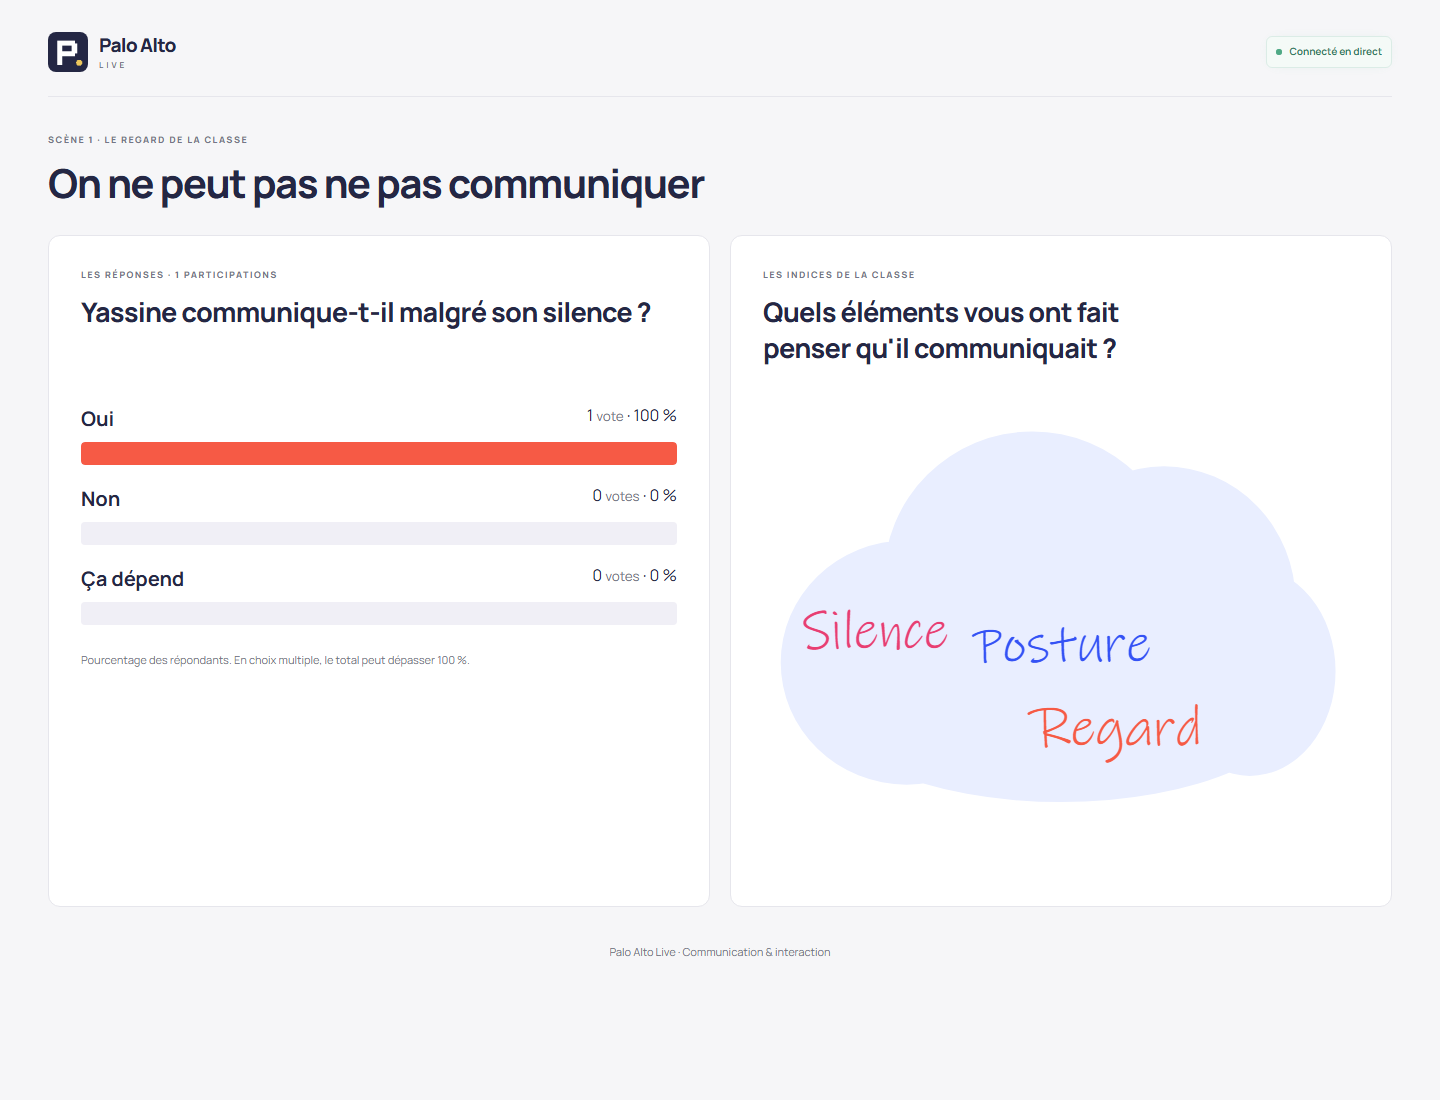
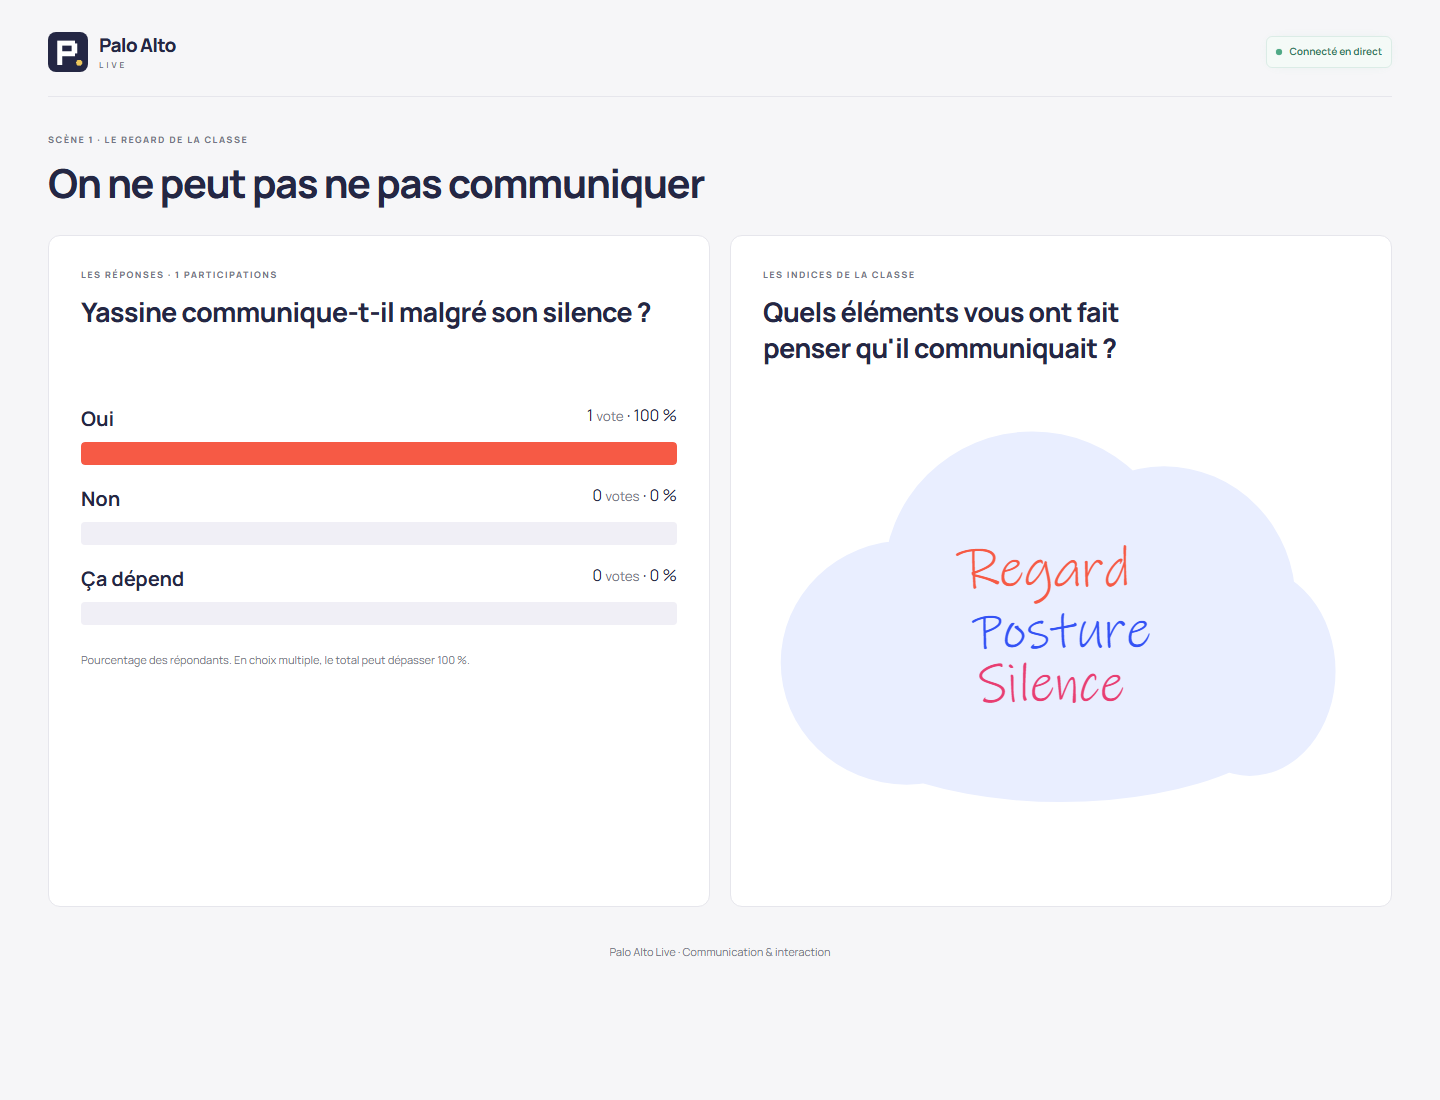
Pack cloud words closely around the live leading choice

Changed region(s): [[0.5625, 0.4945, 0.8438, 0.68]]

diff --git a/tests/e2e/results.spec.ts b/tests/e2e/results.spec.ts
@@ -108,6 +108,40 @@ test('poll and handwritten cloud render consistently without crowded words or cl
   });
   for (const [kind, url] of Object.entries(pngs))
     await writeFile(`work/${kind}-aesthetic.png`, Buffer.from(url.split(',')[1], 'base64'));
+  for (const winner of ['communication', 'écoute']) {
+    await expect(page.locator('.word').first().locator('title')).toContainText(winner);
+    const centered = await page
+      .locator('.word')
+      .first()
+      .evaluate((word) => {
+        const svg = (word as SVGTextElement).ownerSVGElement!;
+        const width = svg.viewBox.baseVal.width;
+        const height = svg.viewBox.baseVal.height;
+        const ctx = document.createElement('canvas').getContext('2d')!;
+        ctx.font = `${word.getAttribute('font-size')}px ${getComputedStyle(word).fontFamily}`;
+        const label = Array.from(word.childNodes)
+          .filter((node) => node.nodeType === Node.TEXT_NODE)
+          .map((node) => node.textContent)
+          .join('')
+          .trim();
+        const glyph = ctx.measureText(label);
+        const x =
+          Number(word.getAttribute('x')) +
+          (glyph.actualBoundingBoxRight - glyph.actualBoundingBoxLeft) / 2;
+        const y =
+          Number(word.getAttribute('y')) +
+          (glyph.actualBoundingBoxDescent - glyph.actualBoundingBoxAscent) / 2;
+        return Math.abs(x - width / 2) < 8 && Math.abs(y - height / 2) < 8;
+      });
+    expect(centered).toBe(true);
+    await page.evaluate(() => {
+      const { result, render } = Reflect.get(window, '__aesthetic');
+      result.words = result.words.map((word: { word: string; count: number }) =>
+        word.word === 'écoute' ? { ...word, count: 35 } : word,
+      );
+      render();
+    });
+  }
   await page.evaluate(() => {
     const { result, render } = Reflect.get(window, '__aesthetic');
     result.total = 32;
@@ -131,10 +165,31 @@ test('poll and handwritten cloud render consistently without crowded words or cl
     await expect
       .poll(() =>
         page.locator('.word-cloud').evaluate((cloud) => {
-          const frame = cloud.getBoundingClientRect();
-          const boxes = Array.from(cloud.querySelectorAll('.word')).map((word) =>
-            word.getBoundingClientRect(),
-          );
+          const frame = cloud.querySelector('.cloud-graphic')!.getBoundingClientRect();
+          const ctx = document.createElement('canvas').getContext('2d')!;
+          // SVG line boxes include empty font leading. Check the painted glyphs,
+          // which must stay separate even when those invisible line boxes touch.
+          const boxes = Array.from(cloud.querySelectorAll<SVGTextElement>('.word')).map((word) => {
+            ctx.font = `${word.getAttribute('font-size')}px ${getComputedStyle(word).fontFamily}`;
+            const label = Array.from(word.childNodes)
+              .filter((node) => node.nodeType === Node.TEXT_NODE)
+              .map((node) => node.textContent)
+              .join('')
+              .trim();
+            const glyph = ctx.measureText(label);
+            const x = Number(word.getAttribute('x'));
+            const y = Number(word.getAttribute('y'));
+            const matrix = word.getScreenCTM()!;
+            const start = new DOMPoint(
+              x - glyph.actualBoundingBoxLeft,
+              y - glyph.actualBoundingBoxAscent,
+            ).matrixTransform(matrix);
+            const end = new DOMPoint(
+              x + glyph.actualBoundingBoxRight,
+              y + glyph.actualBoundingBoxDescent,
+            ).matrixTransform(matrix);
+            return { left: start.x, right: end.x, top: start.y, bottom: end.y };
+          });
           return boxes.every(
             (a, i) =>
               a.left >= frame.left &&
@@ -142,10 +197,10 @@ test('poll and handwritten cloud render consistently without crowded words or cl
               boxes.every(
                 (b, j) =>
                   i === j ||
-                  a.right + 8 <= b.left ||
-                  b.right + 8 <= a.left ||
-                  a.bottom + 8 <= b.top ||
-                  b.bottom + 8 <= a.top,
+                  a.right + 2 <= b.left ||
+                  b.right + 2 <= a.left ||
+                  a.bottom + 2 <= b.top ||
+                  b.bottom + 2 <= a.top,
               ),
           );
         }),
@@ -187,10 +242,10 @@ test('poll and handwritten cloud render consistently without crowded words or cl
               const c = other.bounds;
               return (
                 i === j ||
-                b.x + b.width + 33.9 <= c.x ||
-                c.x + c.width + 33.9 <= b.x ||
-                b.y + b.height + 23.9 <= c.y ||
-                c.y + c.height + 23.9 <= b.y
+                b.x + b.width + 11.9 <= c.x ||
+                c.x + c.width + 11.9 <= b.x ||
+                b.y + b.height + 8.9 <= c.y ||
+                c.y + c.height + 8.9 <= b.y
               );
             })
           );

diff --git a/participant-app/src/result-style.ts b/participant-app/src/result-style.ts
@@ -50,14 +50,10 @@ export function measureCloudWord(ctx: CanvasRenderingContext2D, word: string, si
   ctx.font = `${size}px ${cloudFont}`;
   const glyph = ctx.measureText(word);
   return {
-    left: Math.max(0, glyph.actualBoundingBoxLeft),
-    right: Math.max(glyph.width, glyph.actualBoundingBoxRight),
-    ascent: Math.max(size * 0.75, glyph.actualBoundingBoxAscent, glyph.fontBoundingBoxAscent || 0),
-    descent: Math.max(
-      size * 0.25,
-      glyph.actualBoundingBoxDescent,
-      glyph.fontBoundingBoxDescent || 0,
-    ),
+    left: Math.max(0, glyph.actualBoundingBoxLeft) + 2,
+    right: Math.max(glyph.width, glyph.actualBoundingBoxRight) + 2,
+    ascent: Math.max(size * 0.5, glyph.actualBoundingBoxAscent) + 2,
+    descent: Math.max(size * 0.08, glyph.actualBoundingBoxDescent) + 2,
   };
 }
 
@@ -71,14 +67,14 @@ export function layoutCloud(
     minSize: 32,
     baseSize: 40,
     growth: 52,
-    gapX: 34,
-    gapY: 24,
+    gapX: 12,
+    gapY: 9,
   },
 ): { items: CloudPlacement[]; hidden: number } {
   const { minSize, baseSize, growth, gapX, gapY } = sizing;
   const max = Math.max(1, ...words.map((word) => word.count));
   let best: CloudPlacement[] = [];
-  const candidates = words.slice(0, 24);
+  const candidates = [...words].sort((a, b) => b.count - a.count).slice(0, 24);
   for (let step = 0; candidates.length && step <= 12; step++) {
     const scale = 1 - step * 0.05;
     const items: CloudPlacement[] = [];
@@ -99,13 +95,12 @@ export function layoutCloud(
       const width = left + right;
       const height = ascent + descent;
       if (width > area.width || height > area.height) continue;
-      for (let n = 0; n < 1600; n++) {
+      // Pin the winning word to the center; pack every other word outward from it.
+      for (let n = 0; n < (index ? 1600 : 1); n++) {
         const radius = Math.sqrt(n / 1600);
         const angle = (n + index * 19) * 2.399963229728653;
-        const anchorX = index ? 0.12 + ((index * 0.61803398875) % 1) * 0.76 : 0.5;
-        const anchorY = index ? 0.13 + ((index * 0.75487766625) % 1) * 0.69 : 0.53;
-        const x = area.x + area.width * (anchorX + radius * 0.5 * Math.cos(angle)) - width / 2;
-        const y = area.y + area.height * (anchorY + radius * 0.5 * Math.sin(angle)) - height / 2;
+        const x = area.x + area.width * (0.5 + radius * 0.5 * Math.cos(angle)) - width / 2;
+        const y = area.y + area.height * (0.5 + radius * 0.5 * Math.sin(angle)) - height / 2;
         if (
           x < area.x ||
           y < area.y ||

diff --git a/tests/result-style.test.ts b/tests/result-style.test.ts
@@ -70,10 +70,10 @@ test('cloud keeps every glyph inside its frame and separate, even with long word
         if (item === other) continue;
         const b = other.bounds;
         assert.ok(
-          box.x + box.width + 33.9 <= b.x ||
-            b.x + b.width + 33.9 <= box.x ||
-            box.y + box.height + 23.9 <= b.y ||
-            b.y + b.height + 23.9 <= box.y,
+          box.x + box.width + 11.9 <= b.x ||
+            b.x + b.width + 11.9 <= box.x ||
+            box.y + box.height + 8.9 <= b.y ||
+            b.y + b.height + 8.9 <= box.y,
           'Words must retain a gutter on at least one axis',
         );
       }
@@ -85,4 +85,28 @@ test('cloud keeps every glyph inside its frame and separate, even with long word
     }),
     { items: [], hidden: 0 },
   );
+});
+
+test('the most selected word stays centered and a new winner replaces it during live updates', () => {
+  const area = { x: 85, y: 40, width: 1430, height: 435 };
+  const words = [
+    { word: 'écoute', count: 4 },
+    { word: 'confiance', count: 18 },
+    { word: 'respect', count: 9 },
+  ];
+  const measure = (word: string, size: number) => ({
+    left: 2,
+    right: word.length * size * 0.45,
+    ascent: size * 0.8,
+    descent: size * 0.2,
+  });
+  for (const winner of ['confiance', 'écoute']) {
+    const cloud = layoutCloud(words, area, measure);
+    assert.equal(cloud.items[0].word, winner);
+    const box = cloud.items[0].bounds;
+    assert.ok(Math.abs(box.x + box.width / 2 - area.x - area.width / 2) < 0.001);
+    assert.ok(Math.abs(box.y + box.height / 2 - area.y - area.height / 2) < 0.001);
+    assert.equal(cloud.items.length, words.length);
+    words[0].count = 25;
+  }
 });

diff --git a/tests/e2e/plugin.spec.ts b/tests/e2e/plugin.spec.ts
@@ -12,7 +12,7 @@ test('editor email login loads all prepared scenes; live poll and cloud fills su
   const archive = unzipSync(await readFile('dist/paloalto-live.plugin'));
   const manifest = JSON.parse(new TextDecoder().decode(archive['config.json']));
   expect(manifest.variations[0].type).toBe('panelRight');
-  expect(manifest.version).toBe('1.2.1');
+  expect(manifest.version).toBe('1.2.2');
   expect(manifest.minVersion).toBe('9.3.0');
   expect(manifest.variations[0].EditorsSupport).toEqual(['slide']);
   for (const file of [

diff --git a/participant-app/src/WordCloud.tsx b/participant-app/src/WordCloud.tsx
@@ -46,7 +46,7 @@ export function WordCloud({ words }: { words: { word: string; count: number }[] 
         words,
         { x: 12, y: 12, width: width - 24, height: height - 24 },
         (word, size) => measureCloudWord(ctx, labels.get(word)!, size),
-        { minSize: 18, baseSize: 24, growth: 30, gapX: 14, gapY: 12 },
+        { minSize: 18, baseSize: 24, growth: 30, gapX: 6, gapY: 5 },
       );
       if (!cancelled)
         setCloud({

diff --git a/onlyoffice-plugin/src/AssetTray.tsx b/onlyoffice-plugin/src/AssetTray.tsx
@@ -239,7 +239,7 @@ export function AssetTray({ bridge }: { bridge: AssetBridge }) {
     <div className="asset-tray">
       <header className="asset-tray-header">
         <Brand small />
-        <span className="asset-version">v1.2.1</span>
+        <span className="asset-version">v1.2.2</span>
       </header>
       <main>
         <div className="eyebrow">VOS GRAPHIQUES SUR LA DIAPOSITIVE</div>

diff --git a/docs/ONLYOFFICE_PLUGIN.md b/docs/ONLYOFFICE_PLUGIN.md
@@ -1,6 +1,6 @@
 # ONLYOFFICE Desktop Presentation plugin
 
-Plugin **1.2.1** signs in with organizer email + presentation code and loads every saved scene. Scene editing, voter management and voting controls remain on `/presenter`. The editor reads a private aggregate-only feed; it does not fetch the voter roster.
+Plugin **1.2.2** signs in with organizer email + presentation code and loads every saved scene. Scene editing, voter management and voting controls remain on `/presenter`. The editor reads a private aggregate-only feed; it does not fetch the voter roster.
 
 ## Build and install
 
@@ -26,7 +26,7 @@ Close ONLYOFFICE normally before replacing this folder. Back up its contents fir
 
 Charts are transparent PNGs without a branded frame or question heading; the slide owns the surrounding design. A white-text option supports dark slides. Each scene/type uses stable PNG dimensions as frequencies change, so replacement does not stretch the picture. Website downloads default to cropped transparent PNGs, with an optional full 1600×900 branded export.
 
-Poll colors shuffle within `#ffc83d`, `#3452f5`, `#ffb8c6`, `#f65a45`. The choice IDs and labels seed the shuffle, so votes, resets and reloads preserve the same assignments on the website and in slide graphics. Clouds alone use regular Ink Free from the local computer, with Segoe Print / Comic Sans / cursive fallbacks; Windows font files are not redistributed. Words follow a spiral inside a scalloped cloud silhouette, with bright blue, coral, pink and gold lettering and a soft blue backdrop. Both the website SVG and slide PNG measure glyph and font extents before placement. PNGs preserve 34px horizontal / 24px vertical gutters and a 32px minimum font size. Browser clouds use 18px minimum text and 14px / 12px gutters, with full labels and frequencies in accessible descriptions and tooltips; exceptionally long labels abbreviate in the middle on narrow screens. Crowded clouds show fewer words with an overflow count; all frequencies remain available in CSV. Transparent graphics retain transparency outside the cloud silhouette.
+Poll colors shuffle within `#ffc83d`, `#3452f5`, `#ffb8c6`, `#f65a45`. The choice IDs and labels seed the shuffle, so votes, resets and reloads preserve the same assignments on the website and in slide graphics. Clouds alone use regular Ink Free from the local computer, with Segoe Print / Comic Sans / cursive fallbacks; Windows font files are not redistributed. Words follow a compact spiral inside a scalloped cloud silhouette, with bright blue, coral, pink and gold lettering and a soft blue backdrop. The most-selected word is pinned to the middle; a new winner takes its place during live updates. Both the website SVG and slide PNG measure painted glyph bounds with 2px safety padding rather than reserving invisible font leading. PNGs preserve 12px horizontal / 9px vertical gutters and a 32px minimum font size. Browser clouds use 18px minimum text and 6px / 5px gutters, with full labels and frequencies in accessible descriptions and tooltips; exceptionally long labels abbreviate in the middle on narrow screens. Crowded clouds show fewer words with an overflow count; all frequencies remain available in CSV. Transparent graphics retain transparency outside the cloud silhouette.
 
 Clicking **Ajouter** adds an independent asset; external drag directly from the iframe to the slide canvas is not implemented. Once added, positioning uses the editor's normal drag handles.
 

diff --git a/docs/VALIDATION.md b/docs/VALIDATION.md
@@ -92,3 +92,7 @@ After deployment `f284f43e-56e0-41d0-82ac-417a89e6e600` (application `cfc2522`) 
 Poll colors use a choice-seeded shuffle of the four requested hex codes, shared by website charts and slide PNGs. Clouds use locally installed regular Ink Free, a scalloped silhouette, bright blue/coral/pink/gold words and collision-checked spiral placement. Actual glyph and font bounds, minimum sizes, gutters and overflow counts prevent overlap and clipping. SVG clouds resize to their container and preserve full labels/frequencies in descriptions and tooltips; slide PNG dimensions remain stable during refresh.
 
 22 Node tests, all 5 browser stories, lint, formatting, strict production build and compiled production smoke pass. New coverage checks stable palette assignment, silhouette containment, overhanging glyphs, long answers, dominant frequencies and responsive geometry at 320/390/760/1200px. Preview images use synthetic data and were visually inspected. The existing plugin directory was backed up and updated while ONLYOFFICE was closed; all 20 installed files match the build by SHA-256. No Windows font file was redistributed. Native insertion/fullscreen refresh of this cosmetic update remains unverified; prior native login evidence still applies to the unchanged connection path.
+
+## Compact cloud and centered leading word 1.2.2 — 2026-10-06
+
+Words now pack outward from the most-selected word, pinned to the center. Frequency sorting happens inside the shared layout, so unordered inputs and a new live winner also center correctly. Measuring painted glyph bounds with safety padding removes empty font leading; smaller gutters bring words closer while keeping distinct ink boundaries. All 24 words in the synthetic preview fit without overlap. 23 Node tests, all 5 browser stories, lint, formatting and strict build pass; browser checks verify painted glyph separation at phone/desktop widths and recentering when the leader changes. The plugin was backed up and updated while ONLYOFFICE was closed, with all 20 installed file hashes verified. Native insertion/fullscreen refresh remains a separate unverified boundary.
